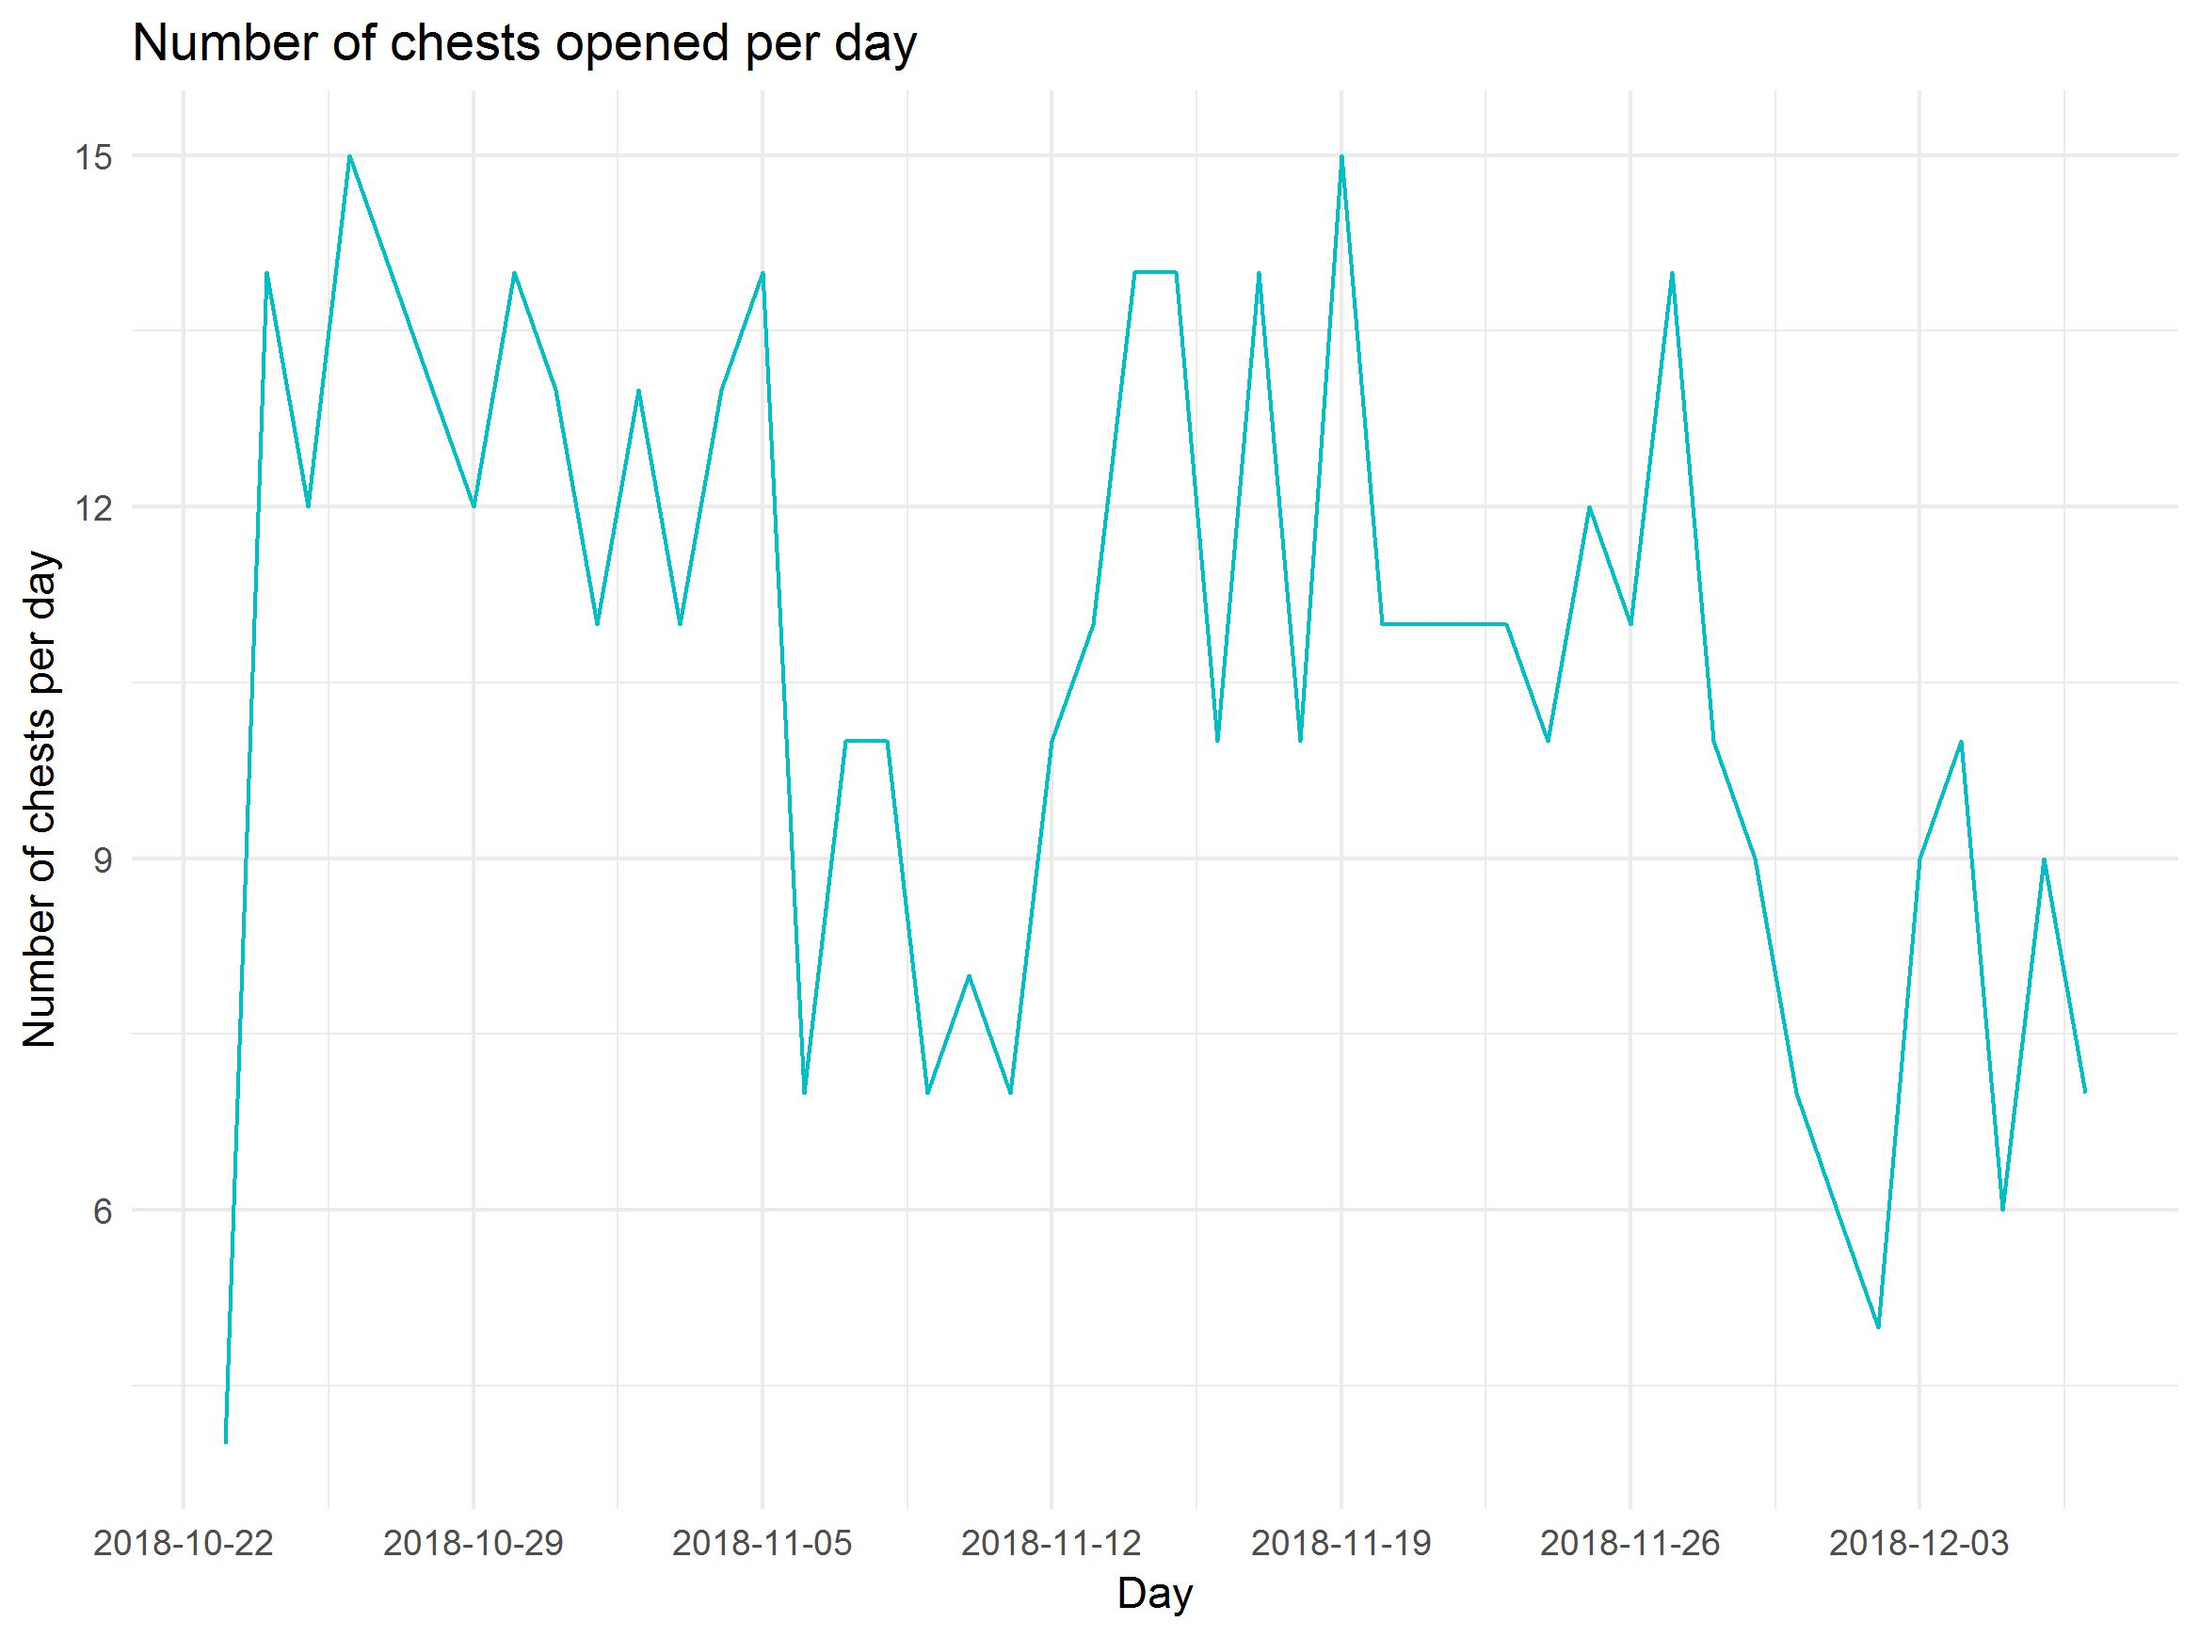
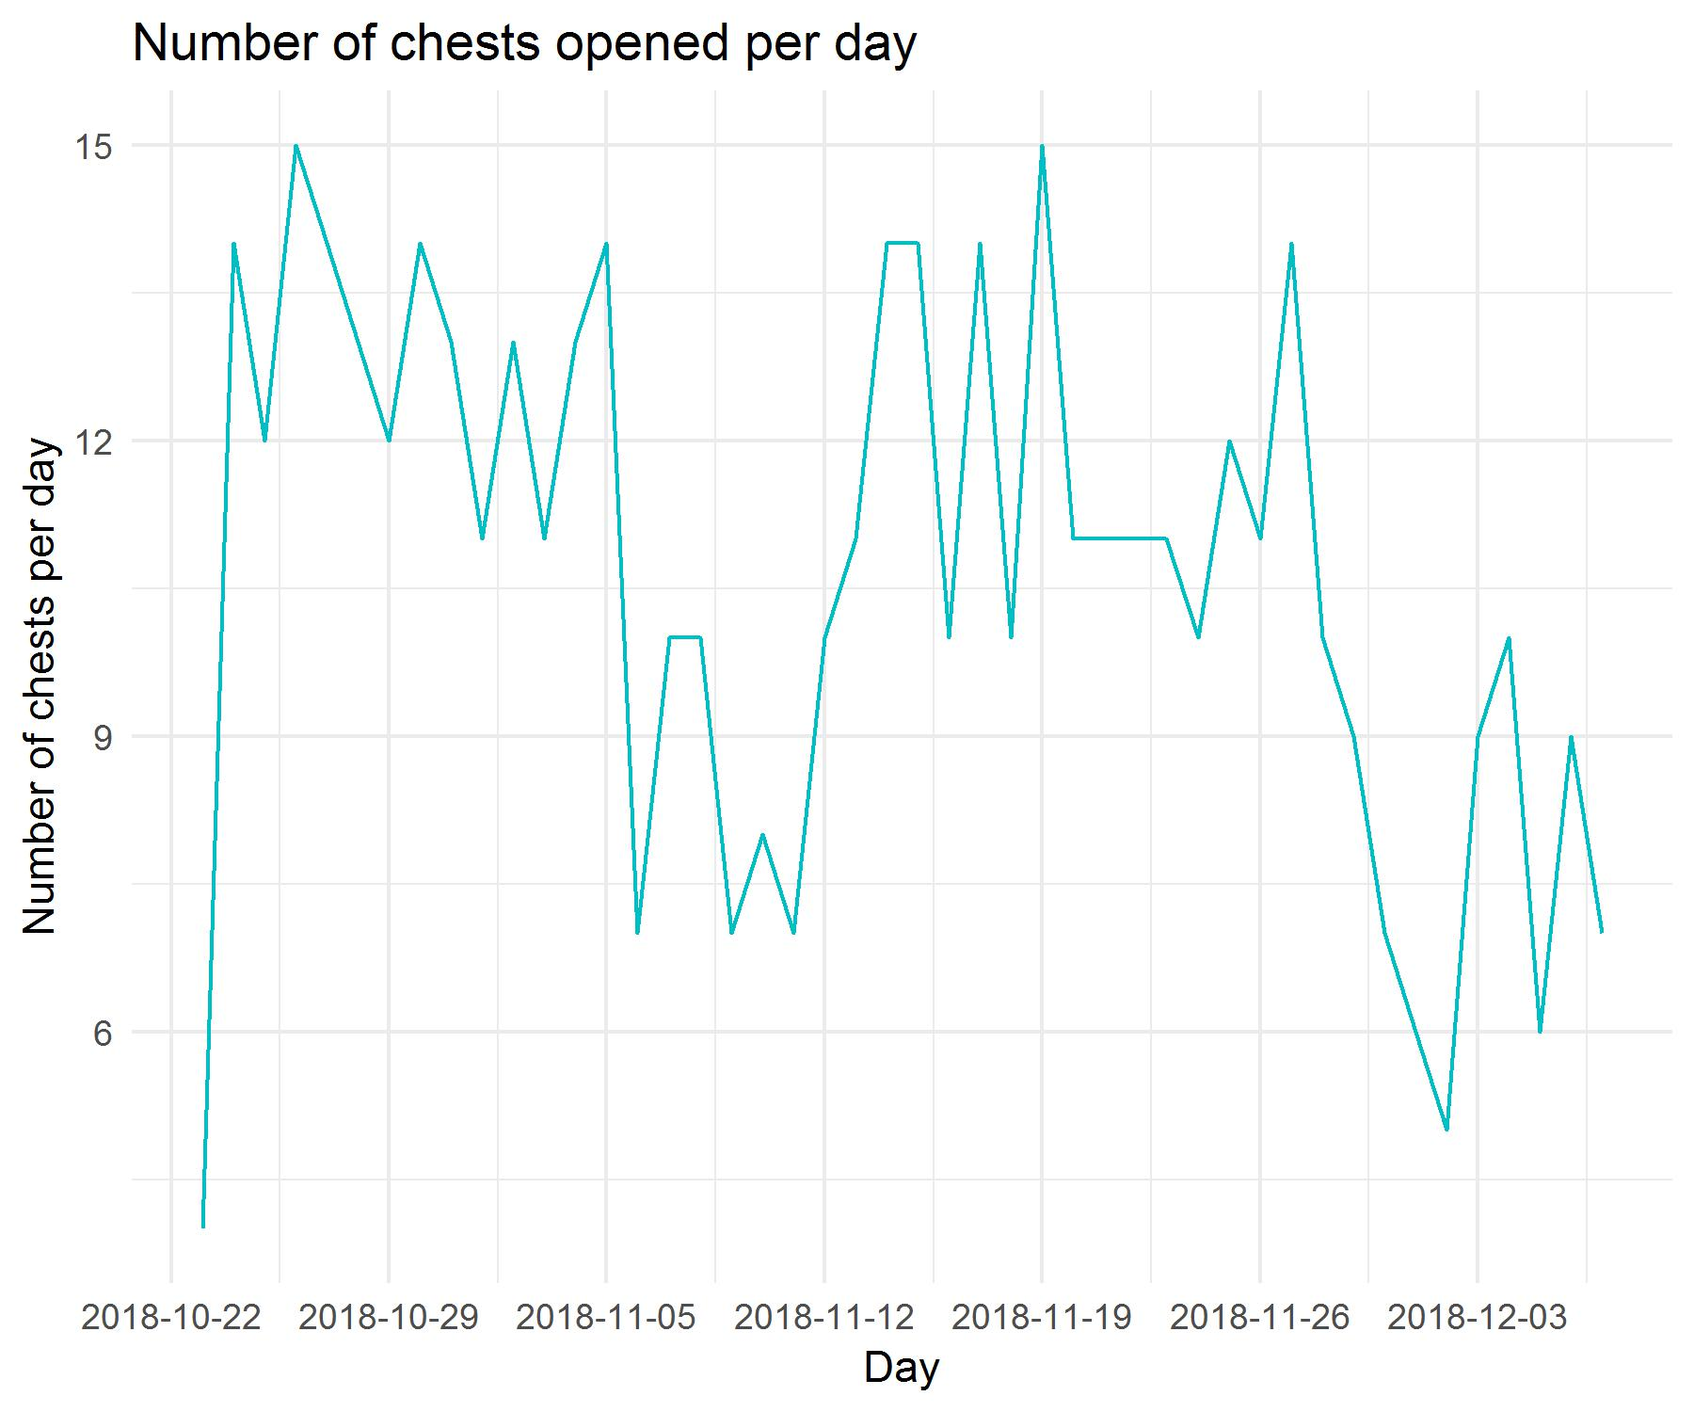
Image Re-sizing

diff --git a/README.md b/README.md
@@ -16,19 +16,19 @@ Chests|Days
 Each lootbox contains:
 - Guaranteed amount of *Scraps*  [20-60]
 - Guaranteed amount of *Tokens* [5-15]
-- *Rarity* (associated to the colour of the border) and *Hero* of each item
+- 2 Items of given *Hero* and *Rarity* (based on the colour of the border) 
 
 For each lootbox, I was taking a screenshot of the rewards screen and reading the following information:
 
-<img src="./images_report/example_screenshot.jpg" width="100" align = "middle"/>
+<img src="./images_report/example_screenshot.jpg" width="200" align = "middle"/>
 
 ## Process
 Text and numbers were extracted directly from the parts of the screenshot with function `tesseract::ocr_data()`
 
-Rarity of the items was exctracted by selecting 1 pixel of the border of each and reading its RGB composition with function `imager::color.at()`. 
+Rarity of the items was exctracted by selecting 1 pixel of the border of each item and reading its RGB composition with function `imager::color.at()`. 
 For some reason I have not investigated, this function gives slightly different values for objects that are the same rarity and thus the same colour.
 
-To overcome this problem, I have used a clustering method to group the most similar values in rarity groups, given an example for each rarity. 
+To overcome this problem, I have used a clustering method (k-means) to group the most similar values in rarity groups, given an example for each rarity.
 
 ## Results & Conclusions
 
@@ -49,7 +49,7 @@ Regarding rarity, the distribution found is as follow:
 
 #### Value
 
-**Scraps** is the scarcest currency (despite Gems - the paid currency) in the game and the one that drives all progression, so to calculate the "value" of the lootbox I will translate everything to it based on the following conversions:
+**Scraps** is the scarcest currency (apart from Gems - paid currency) in the game and the one that drives all progression, so to calculate the "value" of the lootbox I will translate everything to it based on the following conversions:
 
 If:
 
@@ -63,7 +63,7 @@ Then:
 1 Gem = 7 Tokens = 10 Scraps
 
 
-Rarity|Scrap Value (based on the game conversion)
+Rarity|Scraps Value (based on the game conversion)
 ------|------
 Common|10
 Uncommon|25
@@ -72,7 +72,7 @@ Epic|150
 Legendary|300
 
 
-Assuming the previous chances and conversions, I have created a function to simulate a lootbox and run a simulation of 100k openings. Getting that the "average value"" of a Free lootbox is 80 scraps, ranging from 53 to 103 in most of the cases (80%)
+Assuming the previous chances and conversions, I have created a function to simulate a lootbox and run a simulation of 100k openings. Getting that the "average value"" of a Free lootbox is **80** scraps, ranging from 53 to 103 in most of the cases (80%)
 
 ![](./images_report/chest_value.jpg)
 
